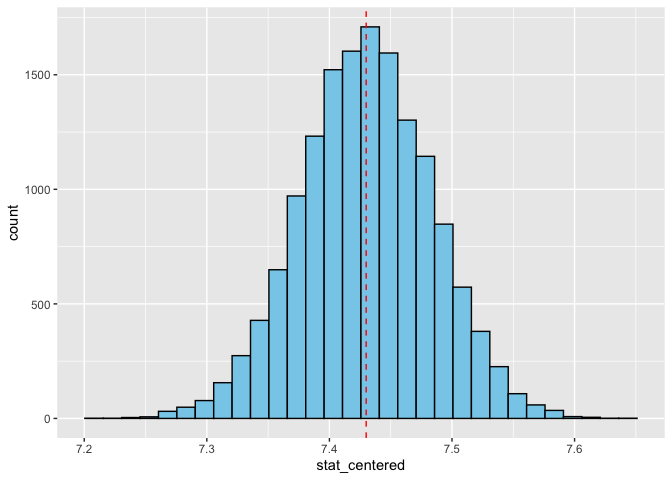
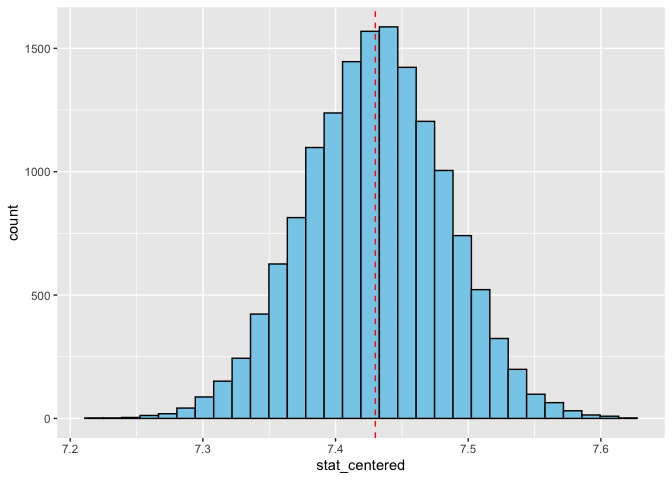
more updates till Ex 10.

diff --git a/lab-12.md b/lab-12.md
@@ -118,6 +118,8 @@ hist(ncbirths_white$weight)
 ### Exercise 4
 
 ``` r
+set.seed(123)
+
 # Generate bootstrapped mean
 ncbirths_white_boot <- ncbirths_white %>%
   specify(response = weight) %>% 
@@ -144,7 +146,7 @@ p_val <- 2*min(F(7.43), 1-F(7.43))
 p_val
 ```
 
-    ## [1] 0.9968
+    ## [1] 0.9962667
 
 ``` r
 # Interpretation
@@ -193,3 +195,60 @@ diff <- ncbirths_clean %>%
                    mean_weight[habit == "smoker"]) %>% 
   pull(diff)
 ```
+
+### Exercise 8
+
+$H_0$: The average birth weights of the two groups are the same.
+Alternatively, $\mu_{Smoker}=\mu_{NonSmoker}$. $H_1$: The average birth
+weights of the two groups are different. Alternatively,
+$\mu_{Smoker} \neq \mu_{NonSmoker}$.
+
+### Exercise 9
+
+Permutation is my choice. This time I’m comparing the esimates of two
+groups by first assuming the effect is 0 (null). Permutation better fits
+this idea.
+
+``` r
+set.seed(123)
+
+diffs <- replicate(5000, {
+  shuffled <- ncbirths_clean %>%
+    mutate(habit = sample(habit))  
+  
+  shuffled %>%
+    group_by(habit) %>%
+    summarize(m = mean(weight), .groups = "drop") %>%
+    summarize(perm.diff = m[habit == "nonsmoker"] -
+                     m[habit == "smoker"]) %>%
+    pull(perm.diff)
+})
+
+F <- ecdf(diffs)
+p <- 2 * min(F(diff), 1 - F(diff))
+p
+```
+
+    ## [1] 0.0336
+
+``` r
+# p = .0336. The smnoker group is associated with lower average birth weight.
+```
+
+### Exercise 10
+
+# The 95% CI does not include 0. This indicates the difference between the two groups is statistically significant.
+
+``` r
+diff_boot <- ncbirths_clean %>%
+  specify(response = weight, explanatory = habit) %>% 
+  generate(reps = 15000, type = "bootstrap") %>% 
+  calculate(stat = "diff in means", order = c("nonsmoker", "smoker"))
+
+get_confidence_interval(diff_boot, level = 0.95, type = "percentile")
+```
+
+    ## # A tibble: 1 × 2
+    ##   lower_ci upper_ci
+    ##      <dbl>    <dbl>
+    ## 1   0.0591    0.584
